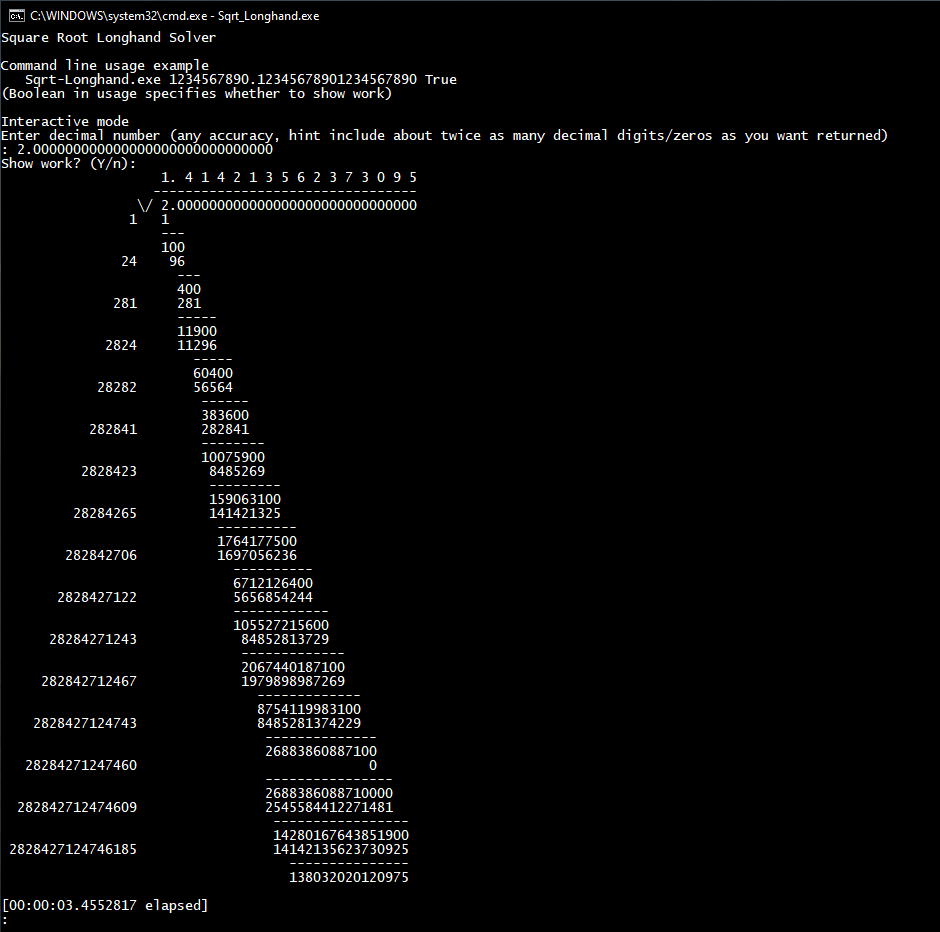
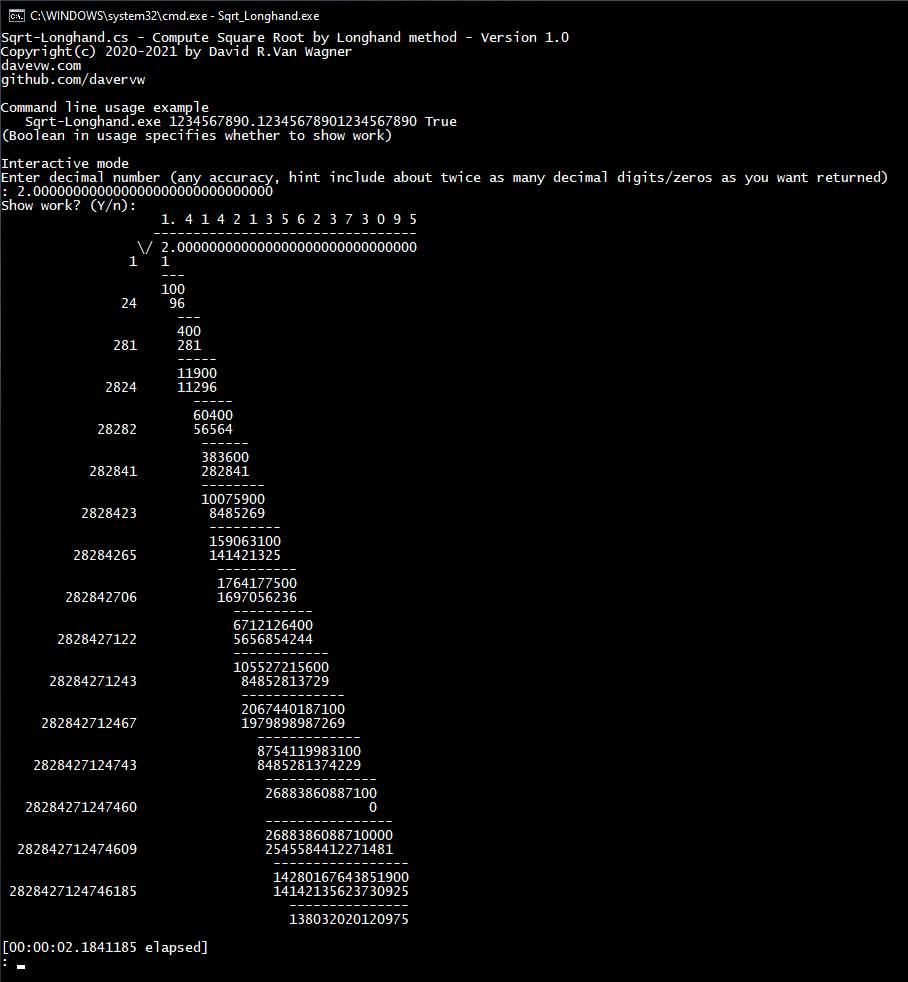
Copyright at runtime

Changed region(s): [[0.0, 0.0, 0.9868, 0.9646], [0.0, 0.9024, 0.2159, 0.9957], [0.5242, 0.0311, 0.5859, 0.0622]]

diff --git a/Sqrt-Longhand.cs b/Sqrt-Longhand.cs
@@ -46,8 +46,12 @@ namespace SquareRoot
             bool interactive = (args.Length == 0);
             if (interactive)
             {
-                Console.WriteLine("Square Root Longhand Solver");
-                Console.WriteLine();
+                Console.WriteLine(@"
+Sqrt-Longhand.cs - Compute Square Root by Longhand method - Version 1.0
+Copyright(c) 2020-2021 by David R.Van Wagner
+davevw.com
+github.com/davervw
+");
                 Console.WriteLine("Command line usage example");
                 Console.WriteLine("   Sqrt-Longhand.exe 1234567890.12345678901234567890 True");
                 Console.WriteLine("(Boolean in usage specifies whether to show work)");
